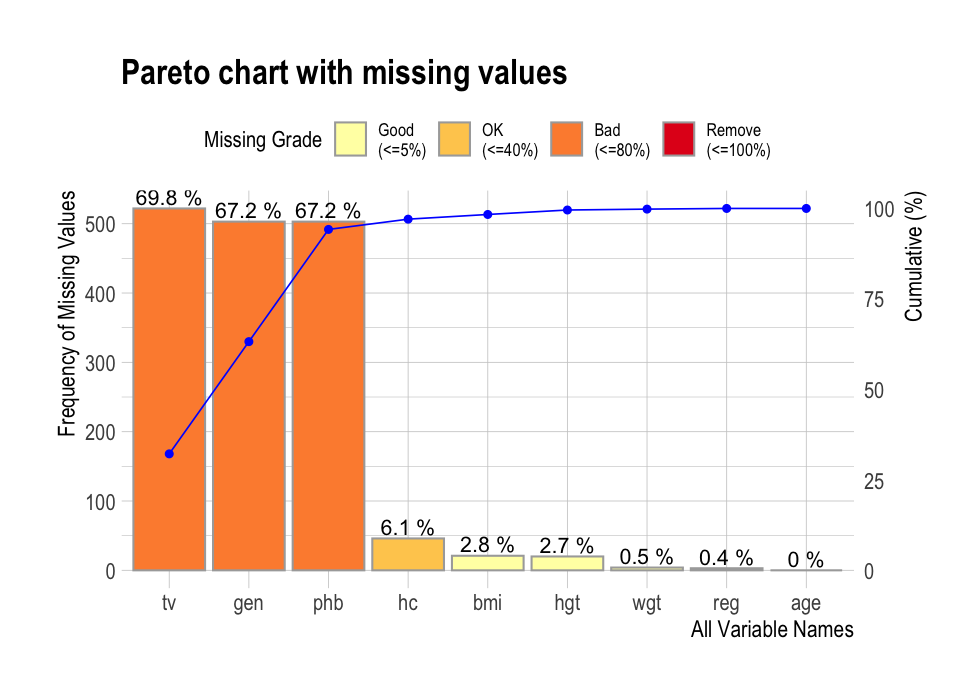
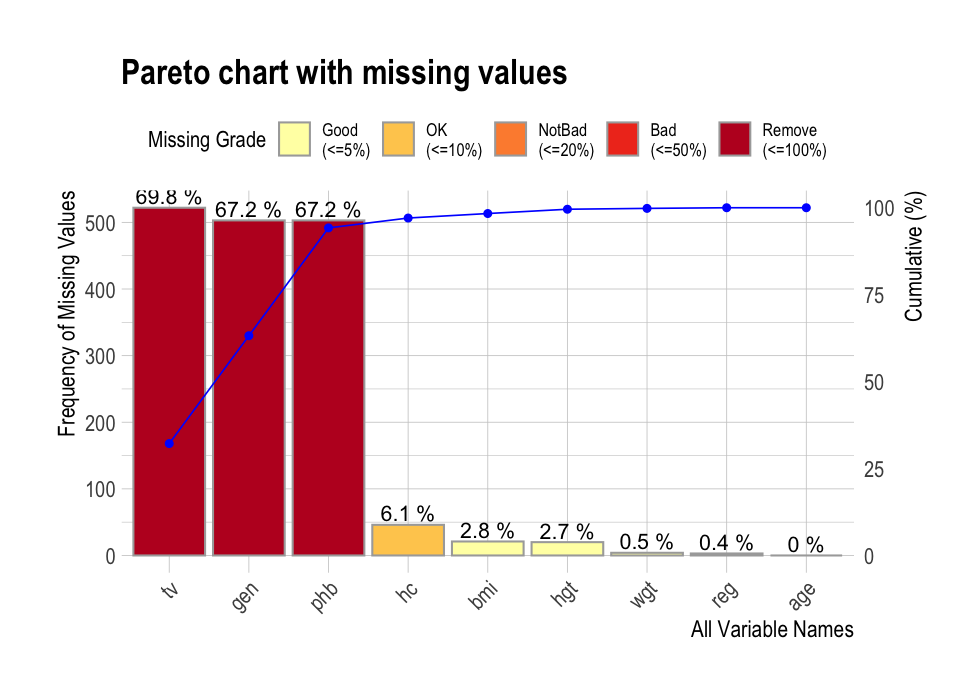
Change grade of missing value in plot_na_pareto()

diff --git a/docs/reference/plot_na_pareto.html b/docs/reference/plot_na_pareto.html
@@ -72,7 +72,7 @@
       </button>
       <span class="navbar-brand">
         <a class="navbar-link" href="../index.html">dlookr</a>
-        <span class="version label label-default" data-toggle="tooltip" data-placement="bottom" title="Released version">0.4.5</span>
+        <span class="version label label-default" data-toggle="tooltip" data-placement="bottom" title="Released version">0.5.0</span>
       </span>
     </div>
 
@@ -129,7 +129,7 @@
   <span class='kw'>relative</span> <span class='kw'>=</span> <span class='fl'>FALSE</span>,
   <span class='kw'>main</span> <span class='kw'>=</span> <span class='kw'>NULL</span>,
   <span class='kw'>col</span> <span class='kw'>=</span> <span class='st'>"black"</span>,
-  <span class='kw'>grade</span> <span class='kw'>=</span> <span class='fu'><a href='https://rdrr.io/r/base/list.html'>list</a></span>(<span class='kw'>Good</span> <span class='kw'>=</span> <span class='fl'>0.05</span>, <span class='kw'>OK</span> <span class='kw'>=</span> <span class='fl'>0.4</span>, <span class='kw'>Bad</span> <span class='kw'>=</span> <span class='fl'>0.8</span>, <span class='kw'>Remove</span> <span class='kw'>=</span> <span class='fl'>1</span>),
+  <span class='kw'>grade</span> <span class='kw'>=</span> <span class='fu'><a href='https://rdrr.io/r/base/list.html'>list</a></span>(<span class='kw'>Good</span> <span class='kw'>=</span> <span class='fl'>0.05</span>, <span class='kw'>OK</span> <span class='kw'>=</span> <span class='fl'>0.1</span>, <span class='kw'>NotBad</span> <span class='kw'>=</span> <span class='fl'>0.2</span>, <span class='kw'>Bad</span> <span class='kw'>=</span> <span class='fl'>0.5</span>, <span class='kw'>Remove</span> <span class='kw'>=</span> <span class='fl'>1</span>),
   <span class='kw'>plot</span> <span class='kw'>=</span> <span class='fl'>TRUE</span>,
   <span class='kw'>typographic</span> <span class='kw'>=</span> <span class='fl'>TRUE</span>
 )</pre>
@@ -163,7 +163,7 @@ In case of FALSE, set it to frequency.</p></td>
     <tr>
       <th>grade</th>
       <td><p>list. Specifies the cut-off to set the grade of the variable according to the ratio of missing values.
-The default values are Good: [0, 0.05], OK: (0.05, 0.4], Bad: (0.4, 0.8], Remove: (0.8, 1].</p></td>
+The default values are Good: [0, 0.05], OK: (0.05, 0.1], NotBad: (0.1, 0.2], Bad: (0.2, 0.5], Remove: (0.5, 1].</p></td>
     </tr>
     <tr>
       <th>plot</th>
@@ -187,23 +187,23 @@ The default is TRUE. if TRUE provides a base theme that focuses on typographic e
 
 <span class='no'>jobchange2</span> <span class='kw'>%&gt;%</span>
   <span class='no'>diagnose</span> <span class='kw'>%&gt;%</span>
-  <span class='fu'><a href='https://dplyr.tidyverse.org/reference/arrange.html'>arrange</a></span>(<span class='fu'><a href='https://dplyr.tidyverse.org/reference/desc.html'>desc</a></span>(<span class='no'>missing_count</span>))</div><div class='output co'>#&gt; <span style='color: #949494;'># A tibble: 14 x 6</span><span>
+  <span class='fu'><a href='https://dplyr.tidyverse.org/reference/arrange.html'>arrange</a></span>(<span class='fu'><a href='https://dplyr.tidyverse.org/reference/desc.html'>desc</a></span>(<span class='no'>missing_count</span>))</div><div class='output co'>#&gt; <span style='color: #949494;'># A tibble: 14 x 6</span>
 #&gt;    variables      types   missing_count missing_percent unique_count unique_rate
-#&gt;    </span><span style='color: #949494;font-style: italic;'>&lt;chr&gt;</span><span>          </span><span style='color: #949494;font-style: italic;'>&lt;chr&gt;</span><span>           </span><span style='color: #949494;font-style: italic;'>&lt;int&gt;</span><span>           </span><span style='color: #949494;font-style: italic;'>&lt;dbl&gt;</span><span>        </span><span style='color: #949494;font-style: italic;'>&lt;int&gt;</span><span>       </span><span style='color: #949494;font-style: italic;'>&lt;dbl&gt;</span><span>
-#&gt; </span><span style='color: #BCBCBC;'> 1</span><span> company_type   factor            325           32.5             7       0.007
-#&gt; </span><span style='color: #BCBCBC;'> 2</span><span> company_size   ordered           313           31.3             9       0.009
-#&gt; </span><span style='color: #BCBCBC;'> 3</span><span> gender         factor            227           22.7             4       0.004
-#&gt; </span><span style='color: #BCBCBC;'> 4</span><span> major_discipl… factor            161           16.1             7       0.007
-#&gt; </span><span style='color: #BCBCBC;'> 5</span><span> last_new_job   ordered            24            2.4             7       0.007
-#&gt; </span><span style='color: #BCBCBC;'> 6</span><span> education_lev… ordered            17            1.7             6       0.006
-#&gt; </span><span style='color: #BCBCBC;'> 7</span><span> enrolled_univ… factor             11            1.10            4       0.004
-#&gt; </span><span style='color: #BCBCBC;'> 8</span><span> experience     ordered             3            0.3            23       0.023
-#&gt; </span><span style='color: #BCBCBC;'> 9</span><span> enrollee_id    charac…             0            0            </span><span style='text-decoration: underline;'>1</span><span>000       1    
-#&gt; </span><span style='color: #BCBCBC;'>10</span><span> city           factor              0            0              88       0.088
-#&gt; </span><span style='color: #BCBCBC;'>11</span><span> city_dev_index numeric             0            0              72       0.072
-#&gt; </span><span style='color: #BCBCBC;'>12</span><span> relevent_expe… factor              0            0               2       0.002
-#&gt; </span><span style='color: #BCBCBC;'>13</span><span> training_hours integer             0            0             194       0.194
-#&gt; </span><span style='color: #BCBCBC;'>14</span><span> job_chnge      factor              0            0               2       0.002</div><div class='input'>
+#&gt;    <span style='color: #949494; font-style: italic;'>&lt;chr&gt;</span>          <span style='color: #949494; font-style: italic;'>&lt;chr&gt;</span>           <span style='color: #949494; font-style: italic;'>&lt;int&gt;</span>           <span style='color: #949494; font-style: italic;'>&lt;dbl&gt;</span>        <span style='color: #949494; font-style: italic;'>&lt;int&gt;</span>       <span style='color: #949494; font-style: italic;'>&lt;dbl&gt;</span>
+#&gt; <span style='color: #BCBCBC;'> 1</span> company_type   factor            325            32.5            7       0.007
+#&gt; <span style='color: #BCBCBC;'> 2</span> company_size   ordered           313            31.3            9       0.009
+#&gt; <span style='color: #BCBCBC;'> 3</span> gender         factor            227            22.7            4       0.004
+#&gt; <span style='color: #BCBCBC;'> 4</span> major_discipl… factor            161            16.1            7       0.007
+#&gt; <span style='color: #BCBCBC;'> 5</span> last_new_job   ordered            24             2.4            7       0.007
+#&gt; <span style='color: #BCBCBC;'> 6</span> education_lev… ordered            17             1.7            6       0.006
+#&gt; <span style='color: #BCBCBC;'> 7</span> enrolled_univ… factor             11             1.1            4       0.004
+#&gt; <span style='color: #BCBCBC;'> 8</span> experience     ordered             3             0.3           23       0.023
+#&gt; <span style='color: #BCBCBC;'> 9</span> enrollee_id    charac…             0             0           <span style='text-decoration: underline;'>1</span>000       1    
+#&gt; <span style='color: #BCBCBC;'>10</span> city           factor              0             0             88       0.088
+#&gt; <span style='color: #BCBCBC;'>11</span> city_dev_index numeric             0             0             72       0.072
+#&gt; <span style='color: #BCBCBC;'>12</span> relevent_expe… factor              0             0              2       0.002
+#&gt; <span style='color: #BCBCBC;'>13</span> training_hours integer             0             0            194       0.194
+#&gt; <span style='color: #BCBCBC;'>14</span> job_chnge      factor              0             0              2       0.002</div><div class='input'>
 <span class='co'># Visualize pareto chart for variables with missing value.</span>
 <span class='fu'>plot_na_pareto</span>(<span class='no'>jobchange2</span>)</div><div class='img'><img src='plot_na_pareto-1.png' alt='' width='700' height='433' /></div><div class='input'>
 <span class='co'># Visualize pareto chart for variables with missing value.</span>
@@ -218,20 +218,20 @@ The default is TRUE. if TRUE provides a base theme that focuses on typographic e
 <span class='fu'>plot_na_pareto</span>(<span class='no'>jobchange2</span>, <span class='kw'>relative</span> <span class='kw'>=</span> <span class='fl'>TRUE</span>, <span class='kw'>only_na</span> <span class='kw'>=</span> <span class='fl'>TRUE</span>,
                <span class='kw'>main</span> <span class='kw'>=</span> <span class='st'>"Pareto Chart for jobchange"</span>)</div><div class='img'><img src='plot_na_pareto-6.png' alt='' width='700' height='433' /></div><div class='input'>
 <span class='co'># Return the aggregate information about missing values.</span>
-<span class='fu'>plot_na_pareto</span>(<span class='no'>jobchange2</span>, <span class='kw'>only_na</span> <span class='kw'>=</span> <span class='fl'>TRUE</span>, <span class='kw'>plot</span> <span class='kw'>=</span> <span class='fl'>FALSE</span>)</div><div class='output co'>#&gt; </span><span style='color: #949494;'># A tibble: 8 x 5</span><span>
-#&gt;   variable            frequencies ratio grade cumulative
-#&gt;   </span><span style='color: #949494;font-style: italic;'>&lt;fct&gt;</span><span>                     </span><span style='color: #949494;font-style: italic;'>&lt;int&gt;</span><span> </span><span style='color: #949494;font-style: italic;'>&lt;dbl&gt;</span><span> </span><span style='color: #949494;font-style: italic;'>&lt;fct&gt;</span><span>      </span><span style='color: #949494;font-style: italic;'>&lt;dbl&gt;</span><span>
-#&gt; </span><span style='color: #BCBCBC;'>1</span><span> company_type                325 0.325 OK          30.1
-#&gt; </span><span style='color: #BCBCBC;'>2</span><span> company_size                313 0.313 OK          59.0
-#&gt; </span><span style='color: #BCBCBC;'>3</span><span> gender                      227 0.227 OK          80.0
-#&gt; </span><span style='color: #BCBCBC;'>4</span><span> major_discipline            161 0.161 OK          94.9
-#&gt; </span><span style='color: #BCBCBC;'>5</span><span> last_new_job                 24 0.024 Good        97.1
-#&gt; </span><span style='color: #BCBCBC;'>6</span><span> education_level              17 0.017 Good        98.7
-#&gt; </span><span style='color: #BCBCBC;'>7</span><span> enrolled_university          11 0.011 Good        99.7
-#&gt; </span><span style='color: #BCBCBC;'>8</span><span> experience                    3 0.003 Good       100  </div><div class='input'>
+<span class='fu'>plot_na_pareto</span>(<span class='no'>jobchange2</span>, <span class='kw'>only_na</span> <span class='kw'>=</span> <span class='fl'>TRUE</span>, <span class='kw'>plot</span> <span class='kw'>=</span> <span class='fl'>FALSE</span>)</div><div class='output co'>#&gt; <span style='color: #949494;'># A tibble: 8 x 5</span>
+#&gt;   variable            frequencies ratio grade  cumulative
+#&gt;   <span style='color: #949494; font-style: italic;'>&lt;fct&gt;</span>                     <span style='color: #949494; font-style: italic;'>&lt;int&gt;</span> <span style='color: #949494; font-style: italic;'>&lt;dbl&gt;</span> <span style='color: #949494; font-style: italic;'>&lt;fct&gt;</span>       <span style='color: #949494; font-style: italic;'>&lt;dbl&gt;</span>
+#&gt; <span style='color: #BCBCBC;'>1</span> company_type                325 0.325 Bad          30.1
+#&gt; <span style='color: #BCBCBC;'>2</span> company_size                313 0.313 Bad          59.0
+#&gt; <span style='color: #BCBCBC;'>3</span> gender                      227 0.227 Bad          80.0
+#&gt; <span style='color: #BCBCBC;'>4</span> major_discipline            161 0.161 NotBad       94.9
+#&gt; <span style='color: #BCBCBC;'>5</span> last_new_job                 24 0.024 Good         97.1
+#&gt; <span style='color: #BCBCBC;'>6</span> education_level              17 0.017 Good         98.7
+#&gt; <span style='color: #BCBCBC;'>7</span> enrolled_university          11 0.011 Good         99.7
+#&gt; <span style='color: #BCBCBC;'>8</span> experience                    3 0.003 Good        100  </div><div class='input'>
 <span class='co'># Not support typographic elements</span>
 <span class='fu'>plot_na_pareto</span>(<span class='no'>jobchange2</span>, <span class='kw'>typographic</span> <span class='kw'>=</span> <span class='fl'>FALSE</span>)</div><div class='img'><img src='plot_na_pareto-7.png' alt='' width='700' height='433' /></div><div class='input'>
-</div></span></pre>
+</div></pre>
   </div>
   <div class="col-md-3 hidden-xs hidden-sm" id="pkgdown-sidebar">
     <nav id="toc" data-toggle="toc" class="sticky-top">

diff --git a/docs/articles/diagonosis.html b/docs/articles/diagonosis.html
@@ -31,7 +31,7 @@
       </button>
       <span class="navbar-brand">
         <a class="navbar-link" href="../index.html">dlookr</a>
-        <span class="version label label-default" data-toggle="tooltip" data-placement="bottom" title="Released version">0.4.1</span>
+        <span class="version label label-default" data-toggle="tooltip" data-placement="bottom" title="Released version">0.5.0</span>
       </span>
     </div>
 
@@ -70,13 +70,13 @@
 
       
 
-      </header><script src="diagonosis_files/header-attrs-2.6.4/header-attrs.js"></script><div class="row">
+      </header><script src="diagonosis_files/header-attrs-2.8/header-attrs.js"></script><div class="row">
   <div class="col-md-9 contents">
     <div class="page-header toc-ignore">
       <h1 data-toc-skip>Data quality diagnosis</h1>
                         <h4 class="author">Choonghyun Ryu</h4>
             
-            <h4 class="date">2021-01-30</h4>
+            <h4 class="date">2021-06-07</h4>
       
       <small class="dont-index">Source: <a href="https://github.com/choonghyunryu/dlookr/blob/master/vignettes/diagonosis.Rmd"><code>vignettes/diagonosis.Rmd</code></a></small>
       <div class="hidden name"><code>diagonosis.Rmd</code></div>
@@ -439,12 +439,12 @@ diagnose(flights, -(year:day))
 <p>If the <code>plot</code> argument is set to FALSE, information about missing values is returned instead of plotting.</p>
 <div class="sourceCode" id="cb18"><html><body><pre class="r">plot_na_pareto(mice::boys, only_na = TRUE, plot = FALSE)
 # A tibble: 8 x 5
-  variable frequencies  ratio grade cumulative
-  &lt;fct&gt;          &lt;int&gt;  &lt;dbl&gt; &lt;fct&gt;      &lt;dbl&gt;
-1 tv               522 0.698  Bad         32.2
-2 gen              503 0.672  Bad         63.2
-3 phb              503 0.672  Bad         94.2
-4 hc                46 0.0615 OK          97.0
+  variable frequencies  ratio grade  cumulative
+  &lt;fct&gt;          &lt;int&gt;  &lt;dbl&gt; &lt;fct&gt;       &lt;dbl&gt;
+1 tv               522 0.698  Remove       32.2
+2 gen              503 0.672  Remove       63.2
+3 phb              503 0.672  Remove       94.2
+4 hc                46 0.0615 OK           97.0
 # … with 4 more rows</pre></body></html></div>
 </div>
 <div id="visualize-combination-chart-using-plot_na_hclust" class="section level4">
@@ -652,10 +652,10 @@ con_sqlite %&gt;%
 # A tibble: 8 x 6
   variables   types   missing_count missing_percent unique_count unique_rate
   &lt;chr&gt;       &lt;chr&gt;           &lt;int&gt;           &lt;dbl&gt;        &lt;int&gt;       &lt;dbl&gt;
-1 Sales       numeric             0              0           182       0.91 
-2 CompPrice   numeric             0              0            65       0.325
-3 Income      numeric            14              7.           81       0.405
-4 Advertising numeric             0              0            23       0.115
+1 Sales       numeric             0               0          182       0.91 
+2 CompPrice   numeric             0               0           65       0.325
+3 Income      numeric            10               5           83       0.415
+4 Advertising numeric             0               0           23       0.115
 # … with 4 more rows</pre></body></html></div>
 </div>
 <div id="diagnose-data-quality-of-categorical-variables-in-the-dbms" class="section level3">
@@ -667,7 +667,7 @@ con_sqlite %&gt;%
   diagnose_category(7, in_database = FALSE, collect_size = 200) 
 # A tibble: 3 x 6
   variables levels     N  freq ratio  rank
-* &lt;chr&gt;     &lt;chr&gt;  &lt;int&gt; &lt;int&gt; &lt;dbl&gt; &lt;int&gt;
+  &lt;chr&gt;     &lt;chr&gt;  &lt;int&gt; &lt;int&gt; &lt;dbl&gt; &lt;int&gt;
 1 ShelveLoc Medium   200   113  56.5     1
 2 ShelveLoc Bad      200    47  23.5     2
 3 ShelveLoc Good     200    40  20       3
@@ -697,7 +697,7 @@ con_sqlite %&gt;%
   &lt;chr&gt;       &lt;dbl&gt;  &lt;dbl&gt;  &lt;dbl&gt;  &lt;dbl&gt;  &lt;dbl&gt; &lt;dbl&gt; &lt;int&gt; &lt;int&gt;   &lt;int&gt;
 1 Sales           0   5.39   7.50   7.49   9.32  16.3     1     0       2
 2 CompPrice      77 115    125.   125    135    175       0     0       2
-3 Income         21  42     68.5   69     91    120       0     0       0
+3 Income         21  42     68.8   69     92    120       0     0       0
 4 Advertising     0   0      6.64   5     12     29     144     0       0
 # … with 4 more rows
   
@@ -709,7 +709,7 @@ con_sqlite %&gt;%
   variables   min    Q1  mean median    Q3   max  zero minus outlier
 * &lt;chr&gt;     &lt;dbl&gt; &lt;dbl&gt; &lt;dbl&gt;  &lt;dbl&gt; &lt;dbl&gt; &lt;dbl&gt; &lt;int&gt; &lt;int&gt;   &lt;int&gt;
 1 Sales         0  5.26  7.42   7.50  9.10  14.9     1     0       0
-2 Income       21 46.2  71.0   73.5  92.8  120       0     0       0</pre></body></html></div>
+2 Income       21 48    71.6   74    93    120       0     0       0</pre></body></html></div>
 </div>
 <div id="diagnose-outlier-of-numerical-variables-in-the-dbms" class="section level3">
 <h3 class="hasAnchor">

diff --git a/docs/articles/diagonosis_files/header-attrs-2.8/header-attrs.js b/docs/articles/diagonosis_files/header-attrs-2.8/header-attrs.js
@@ -1,0 +1,12 @@
+// Pandoc 2.9 adds attributes on both header and div. We remove the former (to
+// be compatible with the behavior of Pandoc < 2.8).
+document.addEventListener('DOMContentLoaded', function(e) {
+  var hs = document.querySelectorAll("div.section[class*='level'] > :first-child");
+  var i, h, a;
+  for (i = 0; i < hs.length; i++) {
+    h = hs[i];
+    if (!/^h[1-6]$/i.test(h.tagName)) continue;  // it should be a header h1-h6
+    a = h.attributes;
+    while (a.length > 0) h.removeAttribute(a[0].name);
+  }
+});

diff --git a/inst/doc/EDA.html b/inst/doc/EDA.html
@@ -12,7 +12,7 @@
 
 <meta name="author" content="Choonghyun Ryu" />
 
-<meta name="date" content="2021-06-05" />
+<meta name="date" content="2021-06-07" />
 
 <title>Exploratory Data Analysis</title>
 
@@ -140,7 +140,7 @@ code span.wa { color: #60a0b0; font-weight: bold; font-style: italic; } /* Warni
 
 <h1 class="title toc-ignore">Exploratory Data Analysis</h1>
 <h4 class="author">Choonghyun Ryu</h4>
-<h4 class="date">2021-06-05</h4>
+<h4 class="date">2021-06-07</h4>
 
 
 
